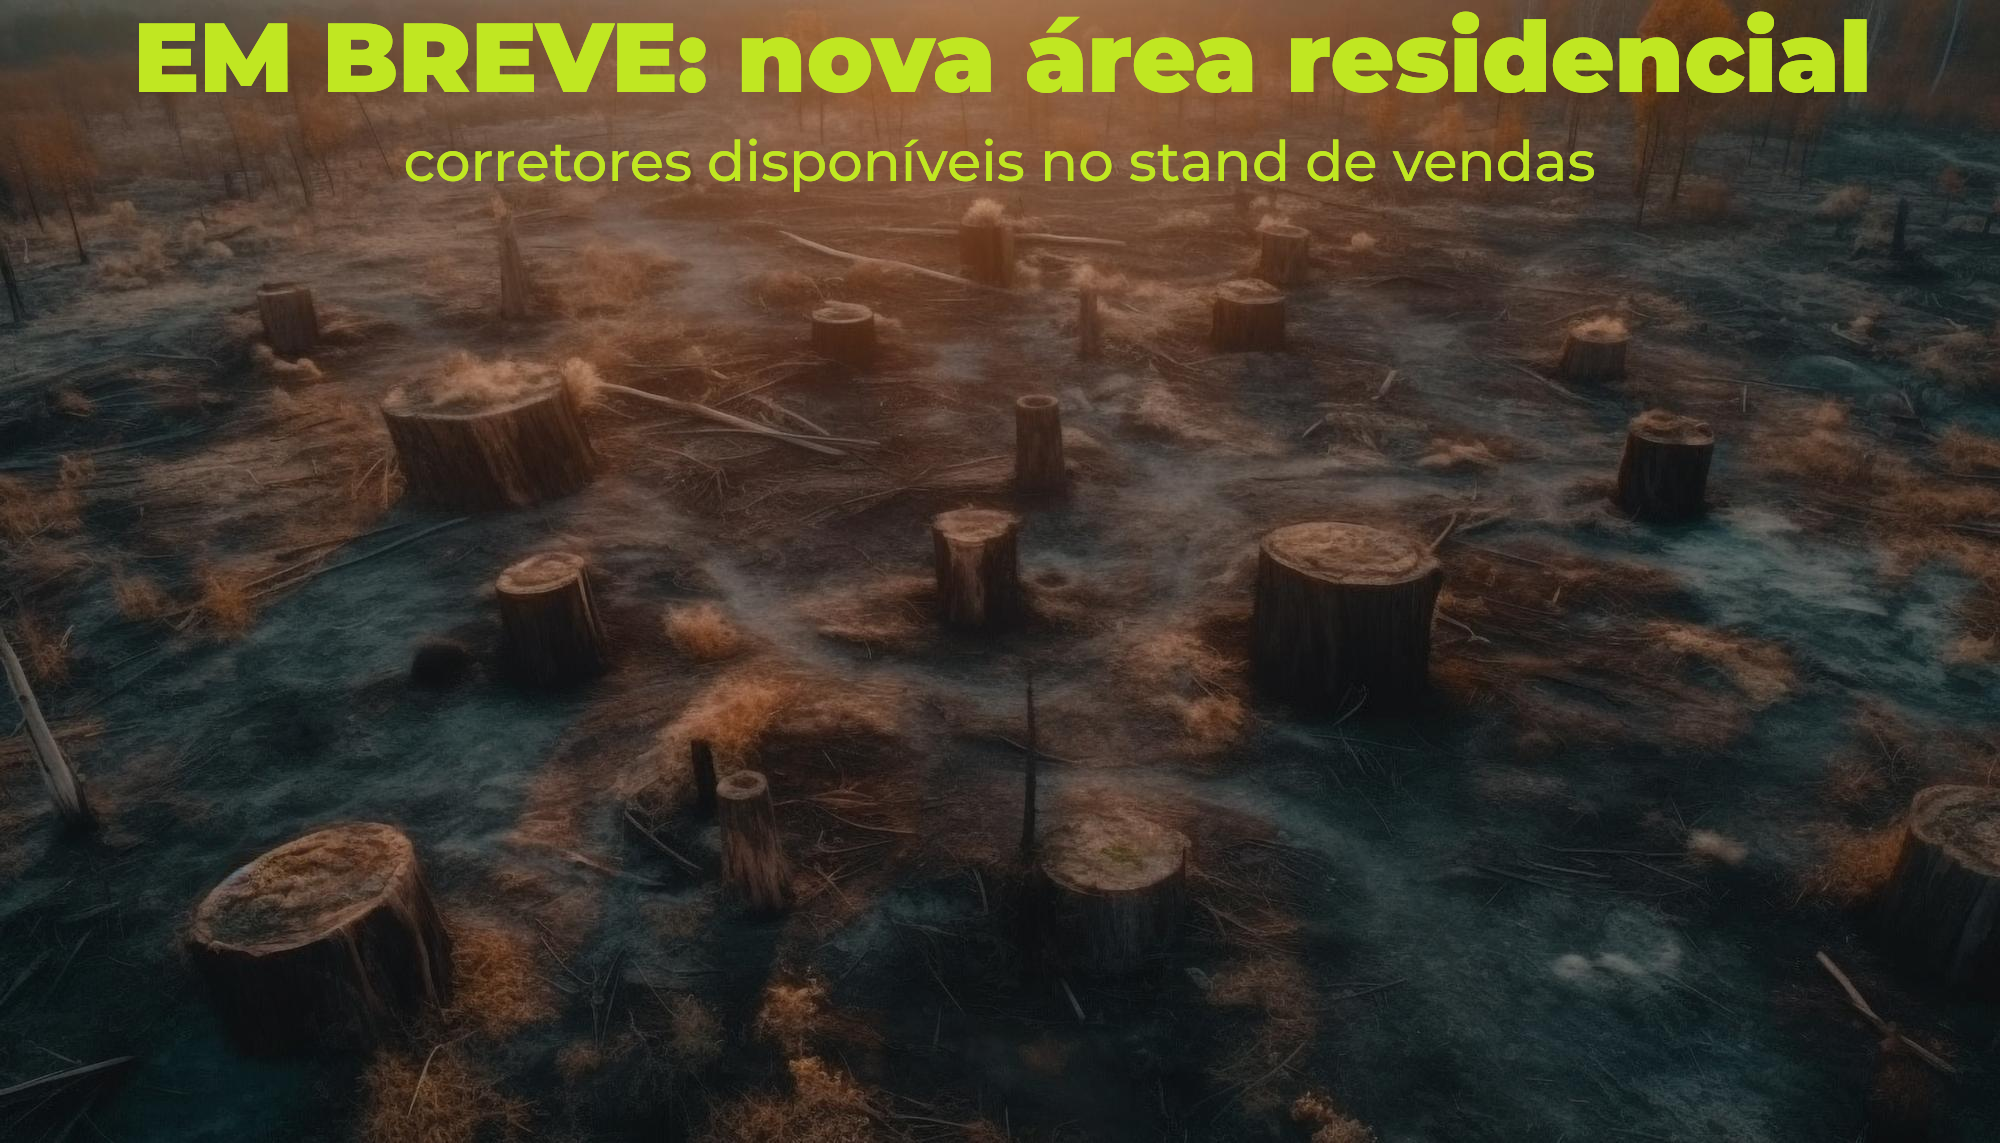
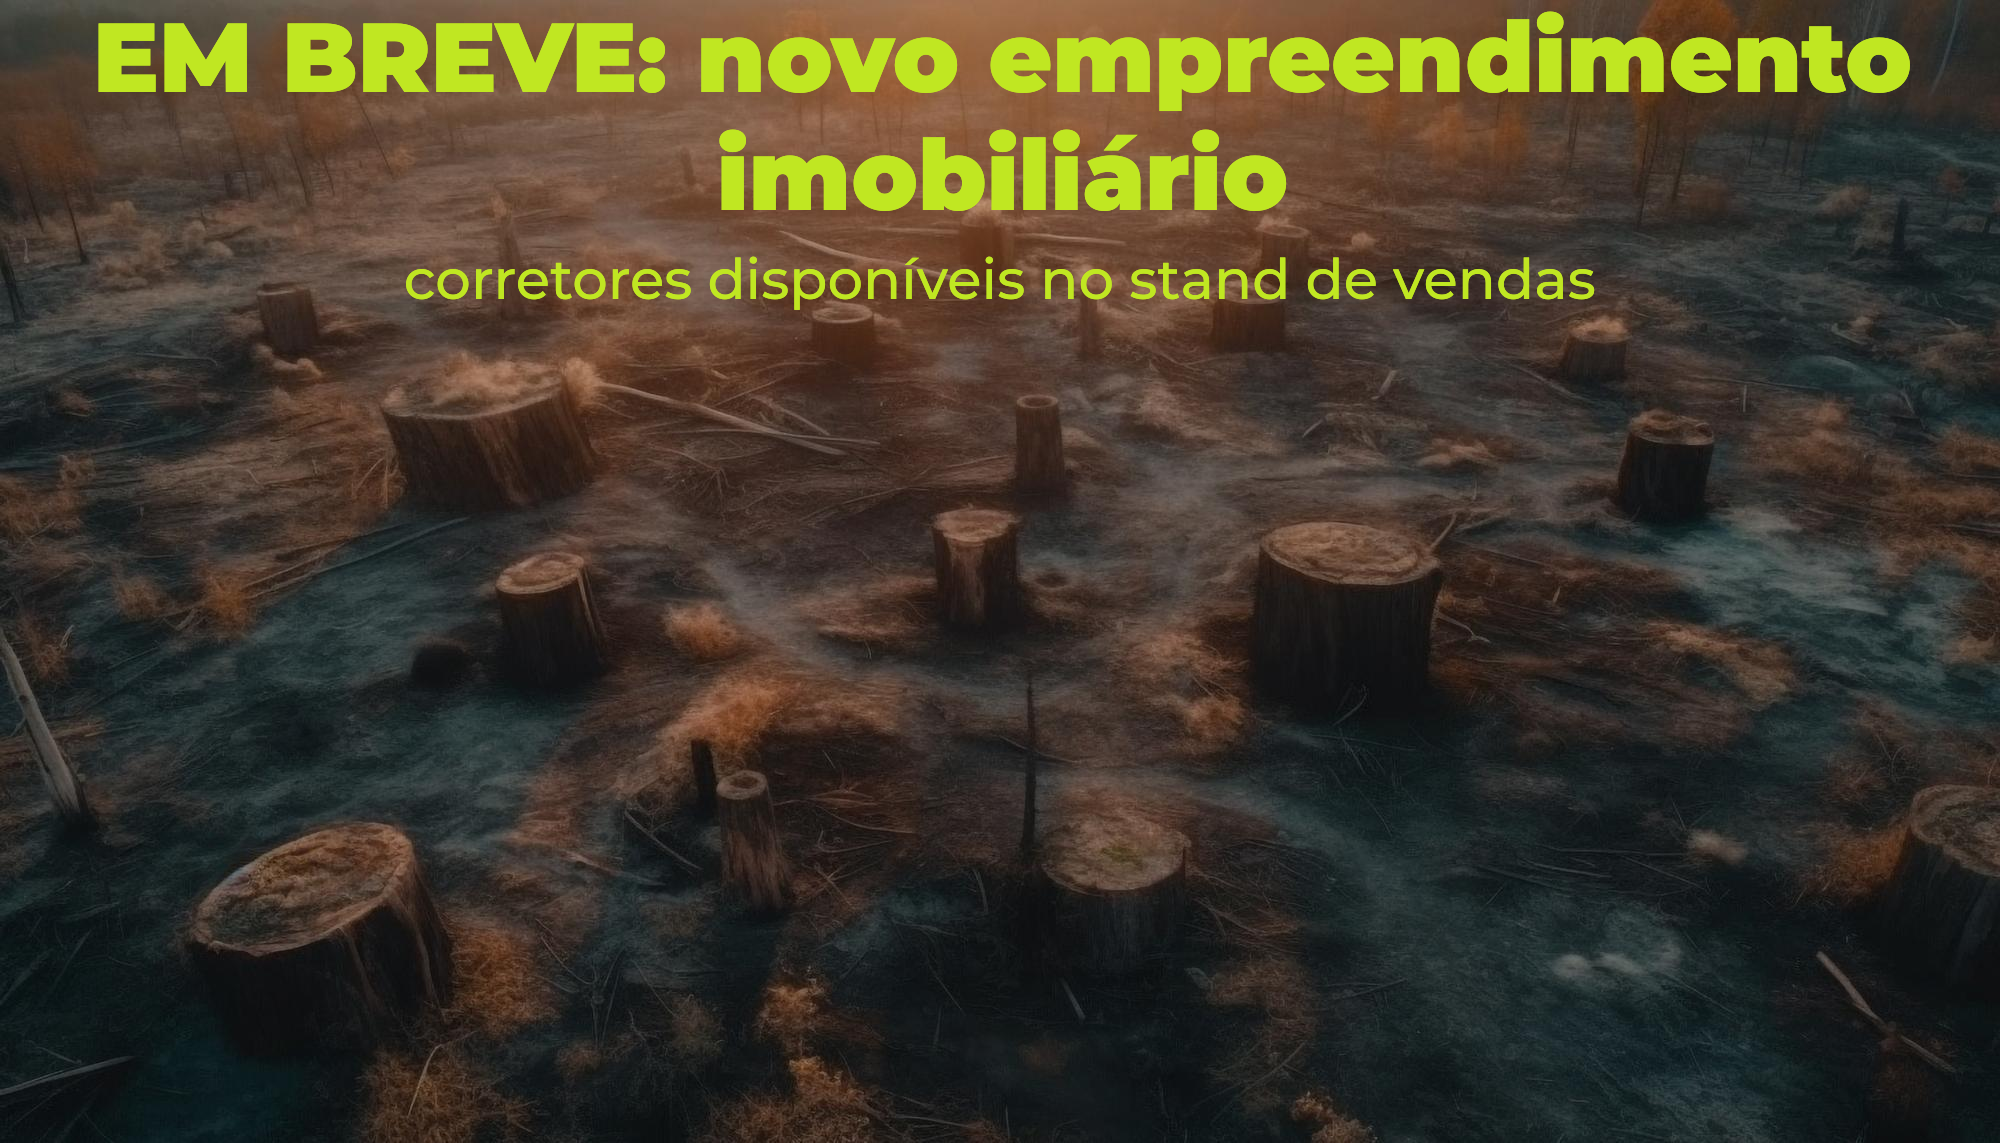
PORT7 editando  Simulado 2 + image21.png refeita

Changed region(s): [[0.031, 0.0, 0.961, 0.1837], [0.217, 0.2143, 0.806, 0.2756]]

diff --git a/7ANO_PORTUGUES/_SAEB_7_POR.tex b/7ANO_PORTUGUES/_SAEB_7_POR.tex
@@ -5014,63 +5014,49 @@ alternativa correta:
 
 \coment{SAEB: Inferir informações implícitas em distintos textos.
 
-a) Correta. O texto traz essa informação no trecho'' Na última década, o
-diabetes cresceu 54\% nos homens e 28,5\% nas mulheres.''
+a) Correta. O texto contém referências a apenas duas doenças relacionadas 
+ao consumo de açúcar: diabetes e obesidade.
+b) Incorreta. O texto contém referências a apenas duas doenças relacionadas 
+ao consumo de açúcar: diabetes e obesidade.
+c) Incorreta. O texto contém referências a apenas duas doenças relacionadas 
+ao consumo de açúcar: diabetes e obesidade.
+d) Incorreta. O texto contém referências a apenas duas doenças relacionadas 
+ao consumo de açúcar: diabetes e obesidade.}
 
-b) Incorreta. O trecho não traz essa informação de forma explícita
 
-c) O trecho não traz essa informação apenas sobre os homens
+\num{7} Observe o meme abaixo para responder à questão.
 
-d) o trecho não traz essa informação apenas sobre mulheres
+\includegraphics[width=4.16667in,height=3.03125in]{media/image21.png}
 
-
-
-\num{7} Leia o texto abaixo para responder à questão. 
-
-\begin{quote}
-
-Avalie os recursos verbais e não verbais e responda
-
-\includegraphics[width=4.16667in,height=3.03125in]{media/image1.png}
-
-O efeito de sentido produzido pela charge é bem claro. Assinale
+O efeito de sentido produzido pela imagem é bem claro. Assinale
 alternativa que apresenta tais efeitos de sentido:
 
+\begin{escolha}
 
-\item
-  Ironia, humor e crítica
-\item
-  Informação, sensibilização e divulgação de conhecimento
-\item
-  Ironia, convencimento e formação de opinião
-\item
-  Crítica, sensibilização e divulgação de conhecimento
+    \item crítica ao desmatamento por meio de oposição.
+
+    \item divulgação de informações por meio de imagem.
+
+    \item persuasão por meio de frases injuntivas. 
+
+    \item sensibilização por meio de frases motivacionais. 
+
 \end{escolha}
 
-Inferir, em textos multissemiótico, efeitos de humor, ironia e/ou
-crítica
+\coment{SAEB: Inferir, em textos multissemiótico, efeitos de humor, ironia e/ou
+crítica.
 
-Bncc: EF69LP05
-
-Inferir e justificar, em textos multissemióticos -- tirinhas, charges,
+Bncc: EF69LP05 -- Inferir e justificar, em textos multissemióticos -- tirinhas, charges,
 memes, gifs etc. --, o efeito de humor, ironia e/ou crítica pelo uso
 ambíguo de palavras, expressões ou imagens ambíguas, de clichês, de
 recursos iconográficos, de pontuação etc.
 
-a) Correta. A ambiguidade se dá entre as palavras da faixa e a situação
-da onça. O uso dos recursos verbais e não verbais produzem tais efeitos
-de sentido
-
-b) Incorreta. O efeito de sentido produzido pela charge não tem como
-objetivo informar, ou divulgar conhecimentos, embora se possa considerar
-a sensibilização como característica
-
-c) Incorreta. Não há intenção de convencimento e formação de opinião
-explícitos na charge
-
-d) Incorreta. Não há intenção de divulgação de conhecimento, embora as
-demais características podem decorrer da leitura deste gênero textual
-multissemiótico
+a) Correta. A crítica ao desmatamento se dá por meio da oposição entre o
+desolamento causado pela destruição da natureza e o tom entusiástico da
+propaganda do empreendimento imobiliário. 
+b) Incorreta. O meme não contém divulgação de informações. 
+c) Incorreta. O meme não contém frases injuntivas, isto é, imperativas.
+d) Incorreta. O meme não contém frases motivacionais.} 
 
 \num{8} Leia o texto abaixo para responder à questão. 
 
